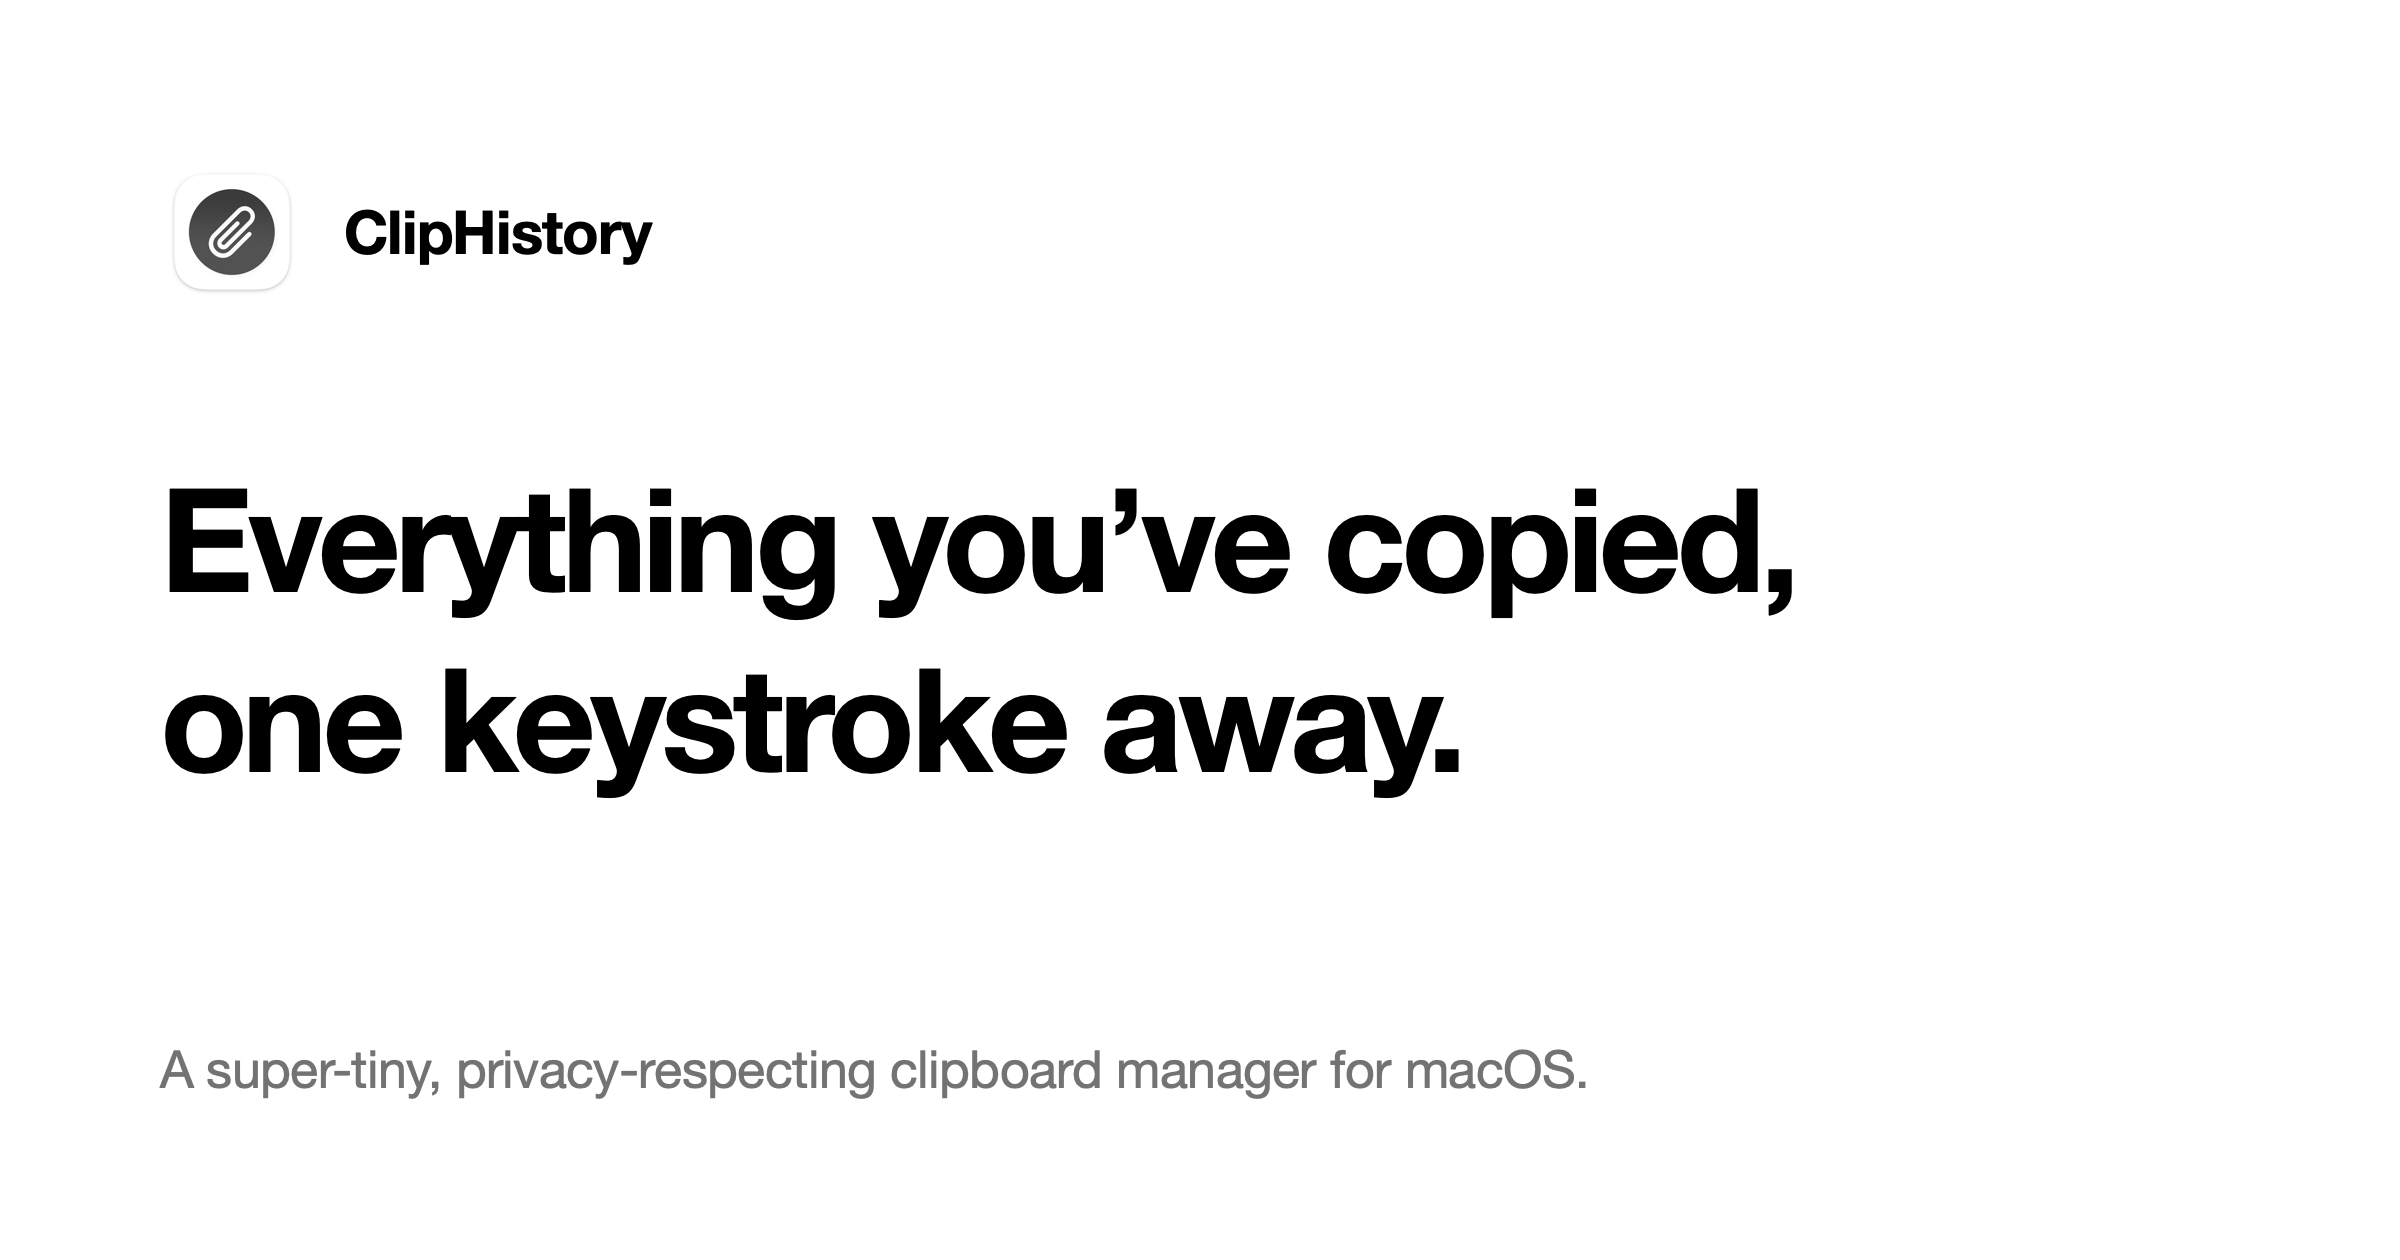
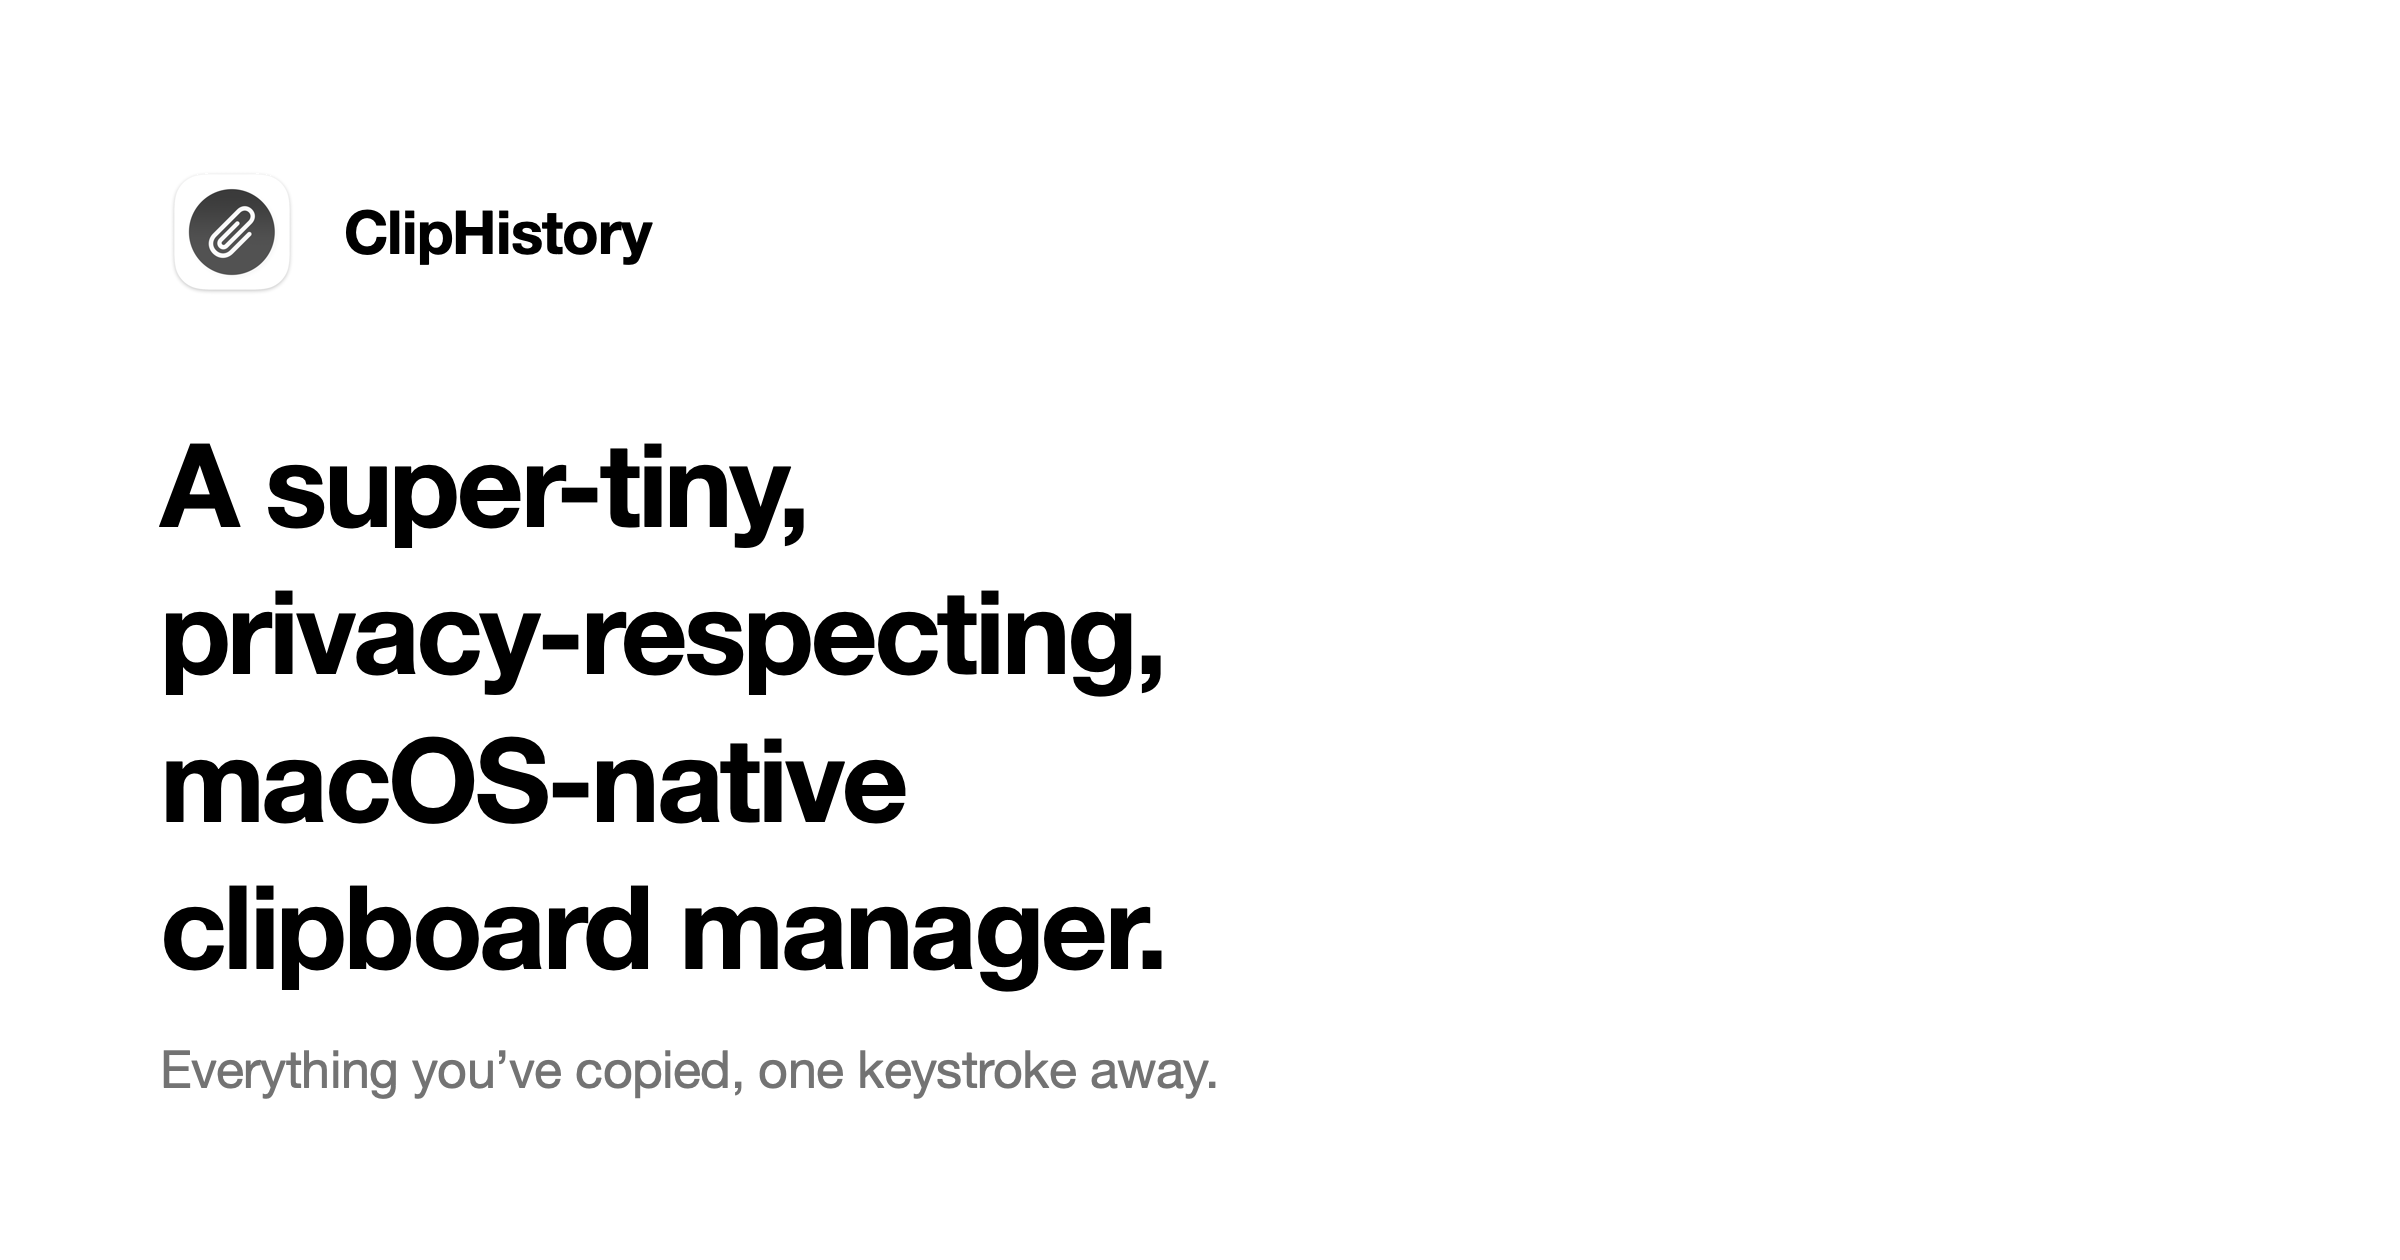
Update OG image to match swapped hero; copy tweak
Regenerate og.png so the card leads with the product line ("A super-tiny,
privacy-respecting, macOS-native clipboard manager.") and carries "Everything
you've copied, one keystroke away." as the descriptor, matching the hero.
Also tweak the feature 04 keyboard-hints wording.

Claude-Session: https://claude.ai/code/session_01RDmszKHLJeudj5Anwg5kyP

Changed region(s): [[0.0625, 0.3405, 0.75, 0.65], [0.0625, 0.681, 0.5, 0.8048], [0.0625, 0.8357, 0.6562, 0.8667]]

diff --git a/scripts/generate-og.swift b/scripts/generate-og.swift
@@ -41,13 +41,13 @@ let wmSize = wordmark.size()
 wordmark.draw(at: NSPoint(x: margin + iconSize + 20, y: margin + (iconSize - wmSize.height) / 2))
 
 // Hero headline
-let headlineFont = NSFont(name: "HelveticaNeue-Bold", size: 72) ?? .boldSystemFont(ofSize: 72)
+let headlineFont = NSFont(name: "HelveticaNeue-Bold", size: 58) ?? .boldSystemFont(ofSize: 58)
 let headlinePara = NSMutableParagraphStyle()
-headlinePara.lineHeightMultiple = 1.02
-let headline = NSAttributedString(string: "Everything you’ve copied,\none keystroke away.", attributes: [
+headlinePara.lineHeightMultiple = 1.03
+let headline = NSAttributedString(string: "A super-tiny,\nprivacy-respecting,\nmacOS-native\nclipboard manager.", attributes: [
     .font: headlineFont,
     .foregroundColor: NSColor.black,
-    .kern: -2.5,
+    .kern: -1.6,
     .paragraphStyle: headlinePara,
 ])
 let headlineMaxWidth = W - margin * 2
@@ -55,13 +55,13 @@ let hBounds = headline.boundingRect(
     with: CGSize(width: headlineMaxWidth, height: .greatestFiniteMagnitude),
     options: [.usesLineFragmentOrigin, .usesFontLeading]
 )
-let headlineY = margin + iconSize + 72
+let headlineY = margin + iconSize + 52
 headline.draw(with: NSRect(x: margin, y: headlineY, width: headlineMaxWidth, height: hBounds.height),
               options: [.usesLineFragmentOrigin, .usesFontLeading])
 
 // Descriptor near the bottom
 let descFont = NSFont(name: "HelveticaNeue", size: 26) ?? .systemFont(ofSize: 26)
-let desc = NSAttributedString(string: "A super-tiny, privacy-respecting clipboard manager for macOS.", attributes: [
+let desc = NSAttributedString(string: "Everything you’ve copied, one keystroke away.", attributes: [
     .font: descFont,
     .foregroundColor: NSColor.black.withAlphaComponent(0.55),
     .kern: -0.3,

diff --git a/index.html b/index.html
@@ -115,7 +115,7 @@
       <article class="feature">
         <span class="feature-num">04</span>
         <h3>Opens straight<br>into search</h3>
-        <p>A quiet Liquid Glass popup with no branding header or toolbar, just start typing to filter by content or source app. A clean type scale and legible keyboard hints throughout.</p>
+        <p>A quiet Liquid Glass popup with no branding header or toolbar, just start typing to filter by content or source app. A clean type scale and helpful keyboard hints to guide you.</p>
       </article>
 
       <article class="feature">